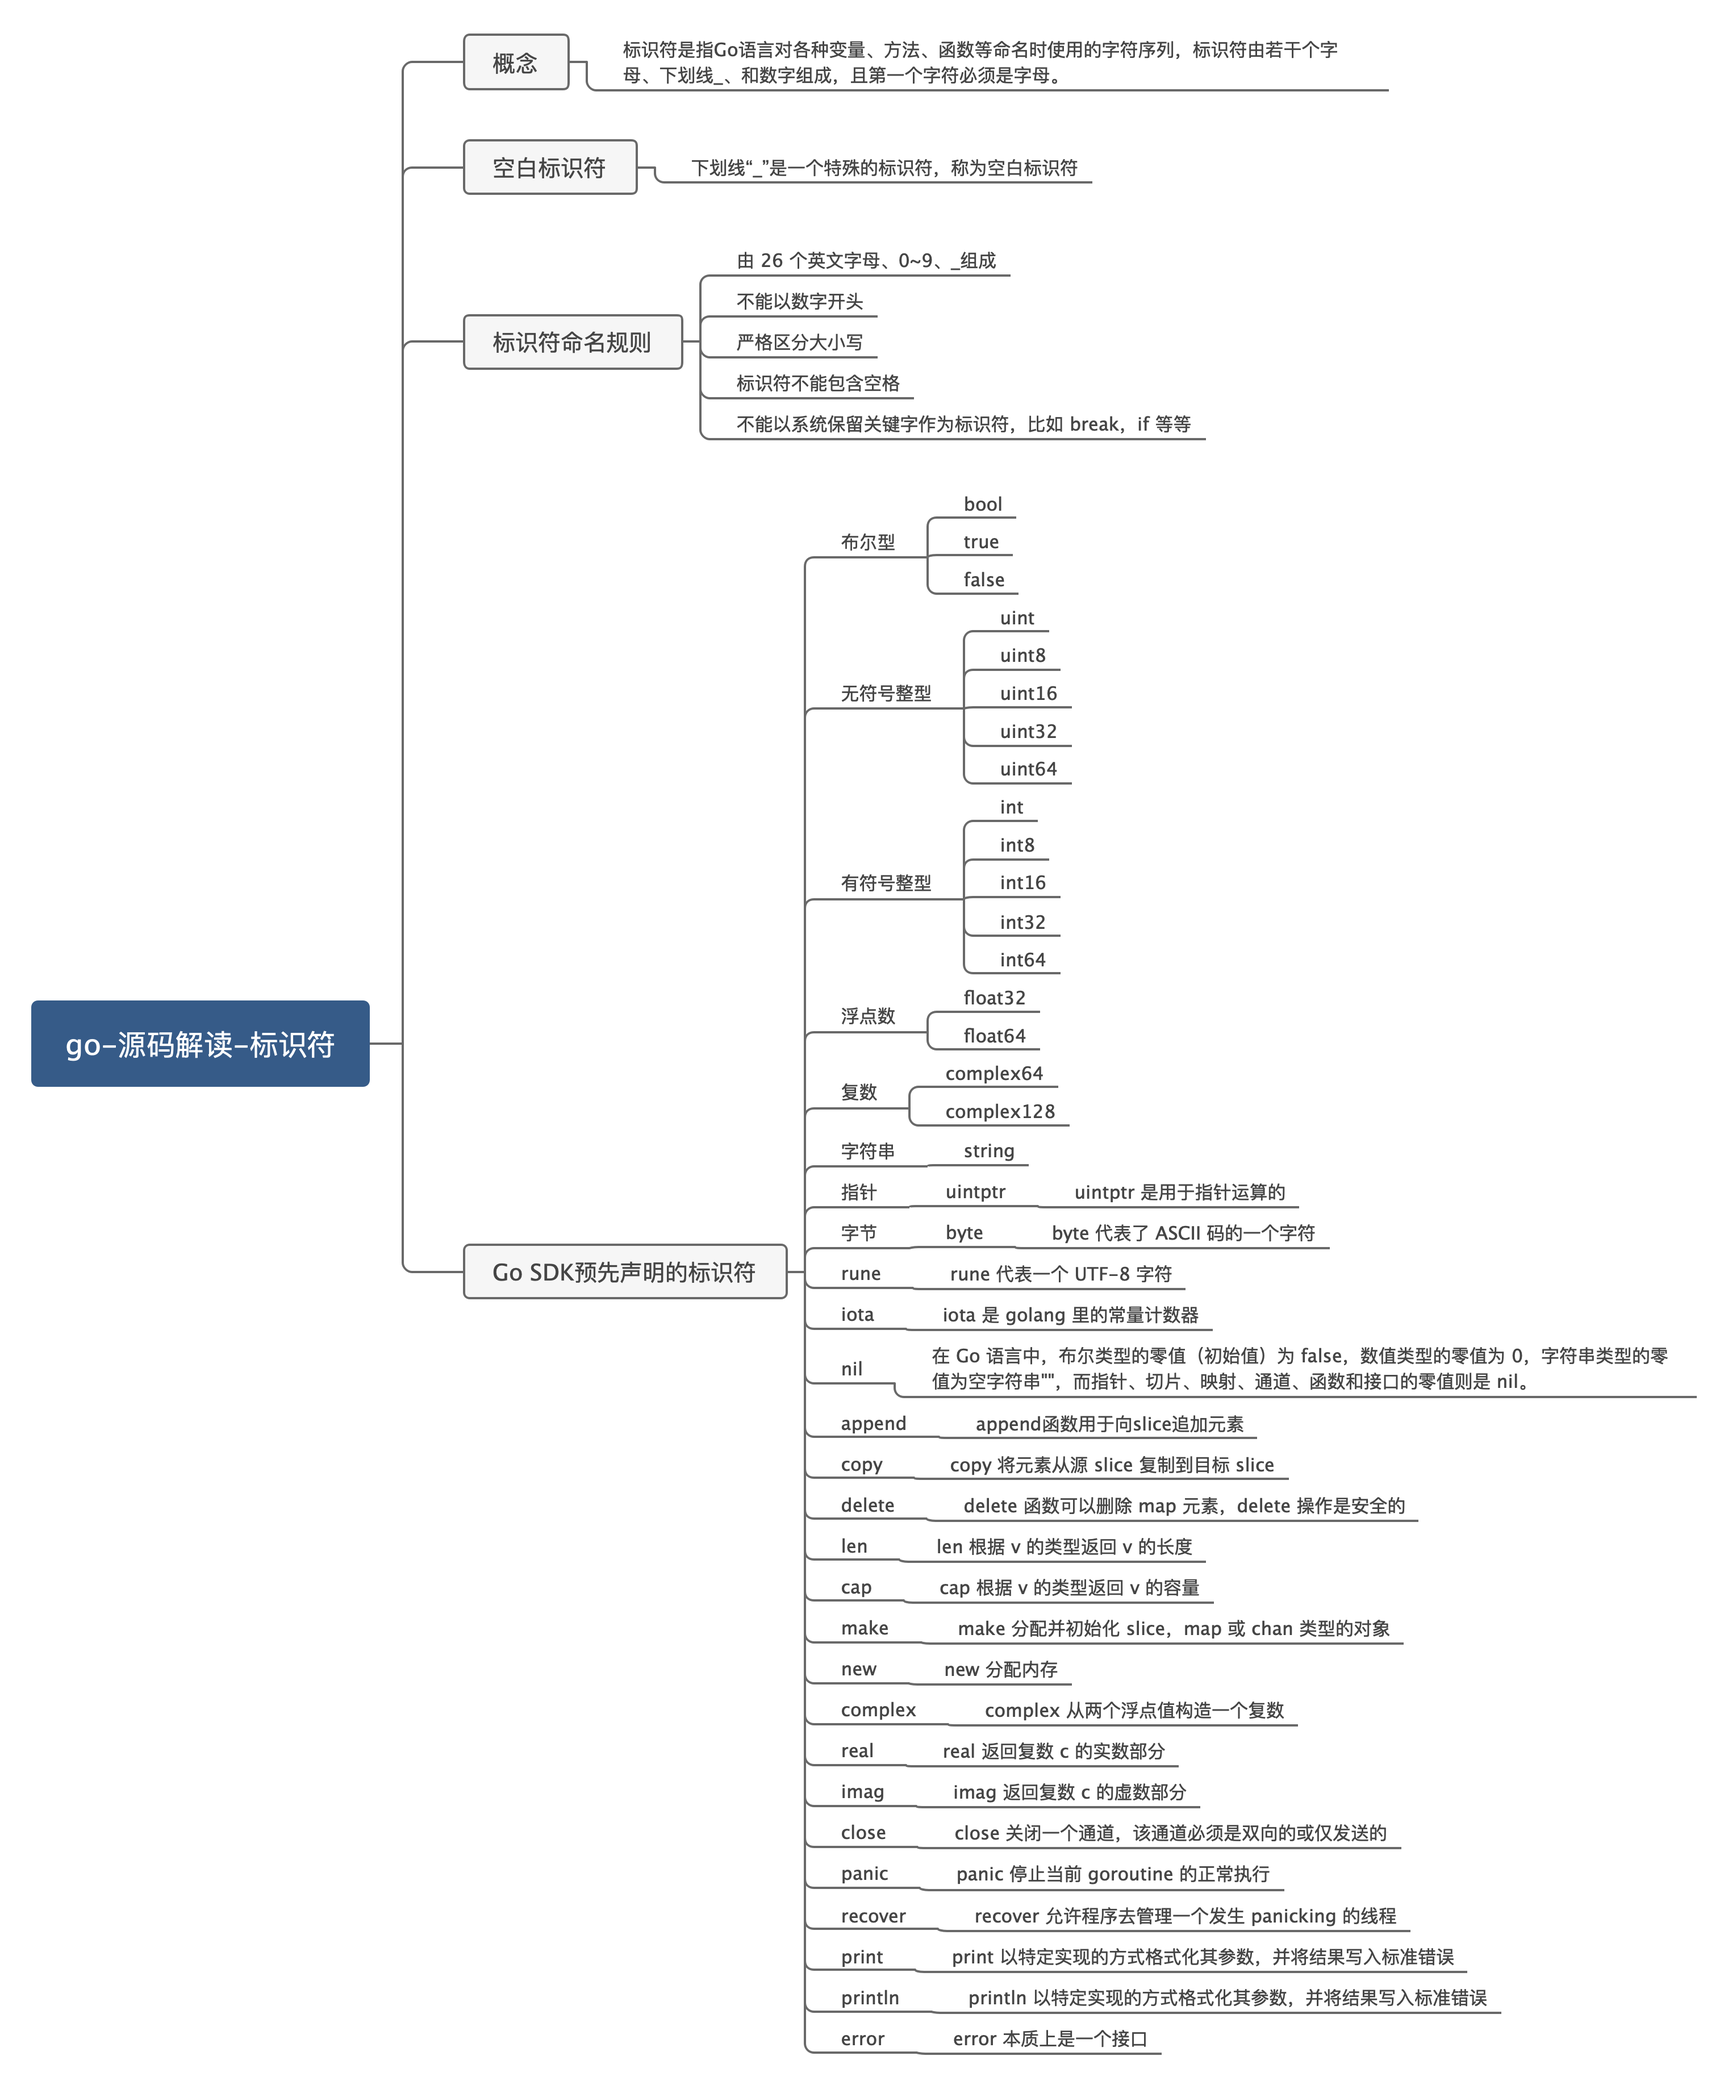
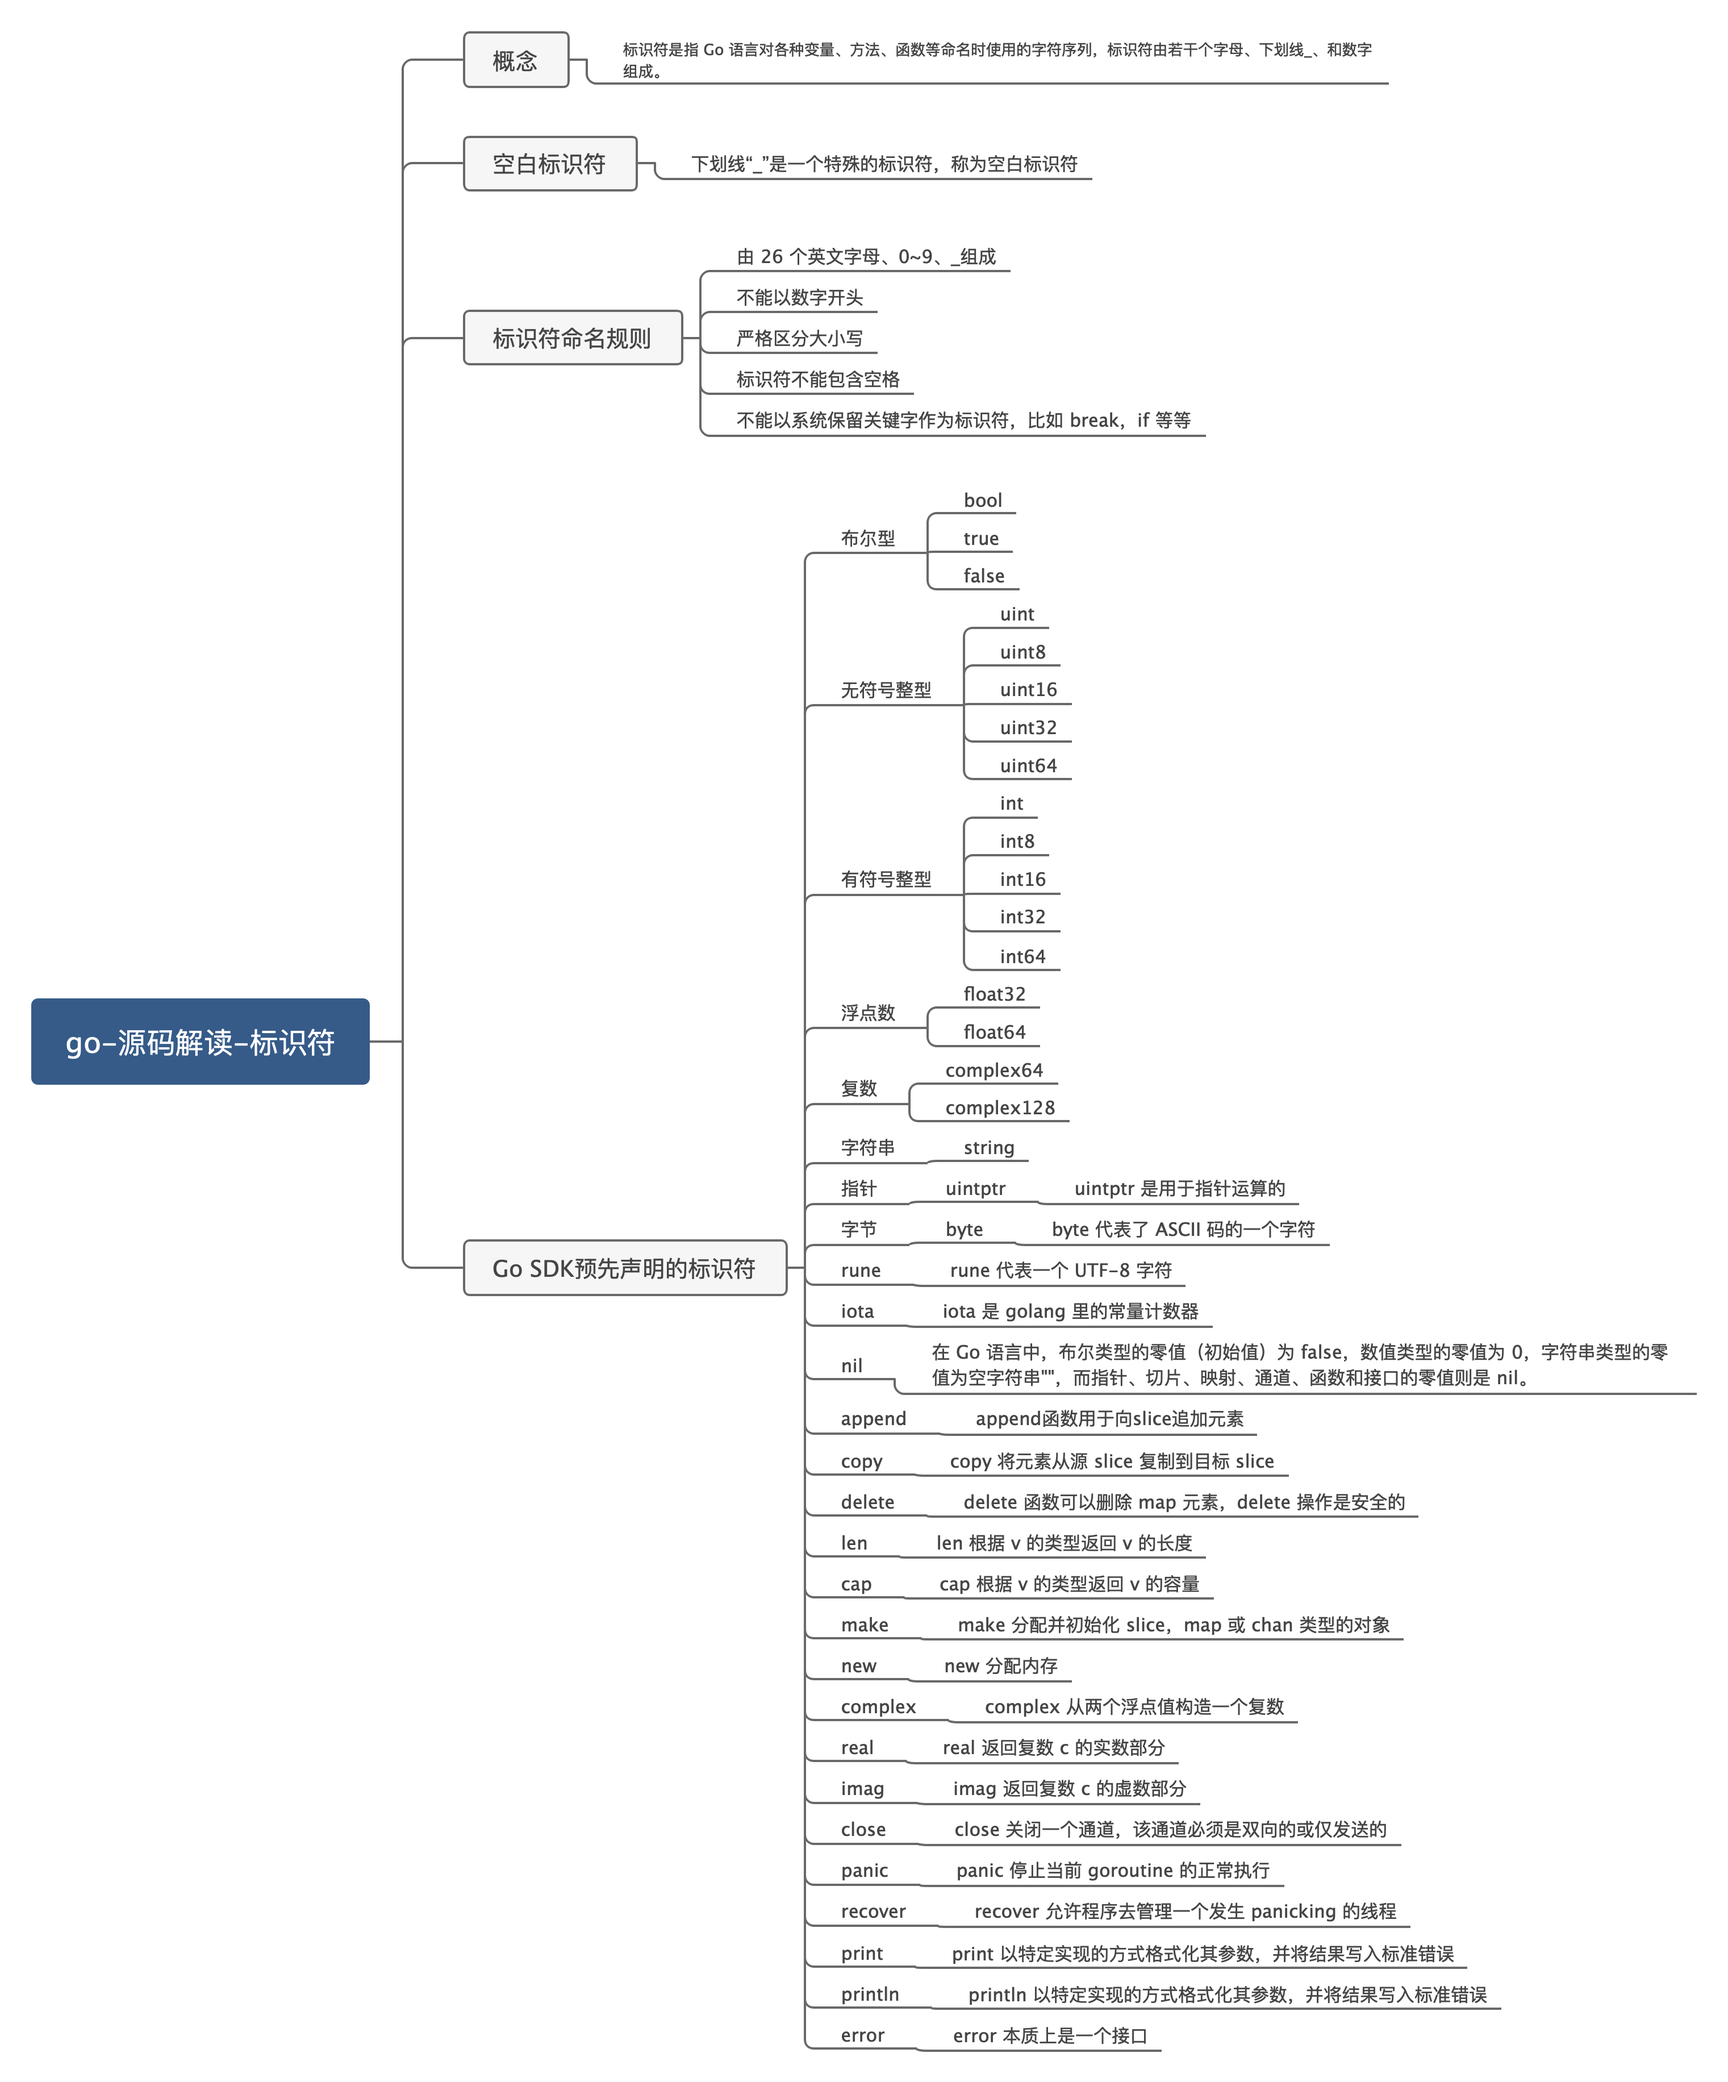
改版

diff --git a/docs/go-源码解读-标识符.md b/docs/go-源码解读-标识符.md
@@ -1,18 +1,18 @@
 # Go 源码解读-标识符
 
-标识符是指Go语言对各种变量、方法、函数等命名时使用的字符序列，标识符由若干个字母、下划线_、和数字组成，且第一个字符必须是字母。
+标识符是指 Go 语言对各种变量、方法、函数等命名时使用的字符序列，标识符由若干个字母、下划线_、和数字组成。
 
 通俗的讲就是凡可以自己定义的名称都可以叫做标识符。
 
 ## 空白标识符
 
-下划线 _ 是一个特殊的标识符，称为空白标识符，它可以像其他标识符那样用于变量的声明或赋值（任何类型都可以赋值给它），但任何赋给这个标识符的值都将被抛弃，因此这些值不能在后续的代码中使用，也不可以使用 _ 作为变量对其它变量进行赋值或运算。
+下划线"_"是一个特殊的标识符，称为空标识符，它可以像其他标识符那样用于变量的声明或赋值（任何类型都可以赋值给它），但任何赋给这个标识符的值都将被抛弃，因此这些值不能在后续的代码中使用，也不可以使用 _ 作为变量对其它变量进行赋值或运算。
 
 ## 标识符命名规则
 
-- 由 26 个英文字母、0~9、_组成
+- 由 26 个英文字母、0~9、下划线"_"组成
 - 不能以数字开头，例如 var 1num int 是错误的
-- Go语言中严格区分大小写
+- Go 语言中严格区分大小写
 - 标识符不能包含空格
 - 不能以系统保留关键字作为标识符，比如 break，if 等等
 
